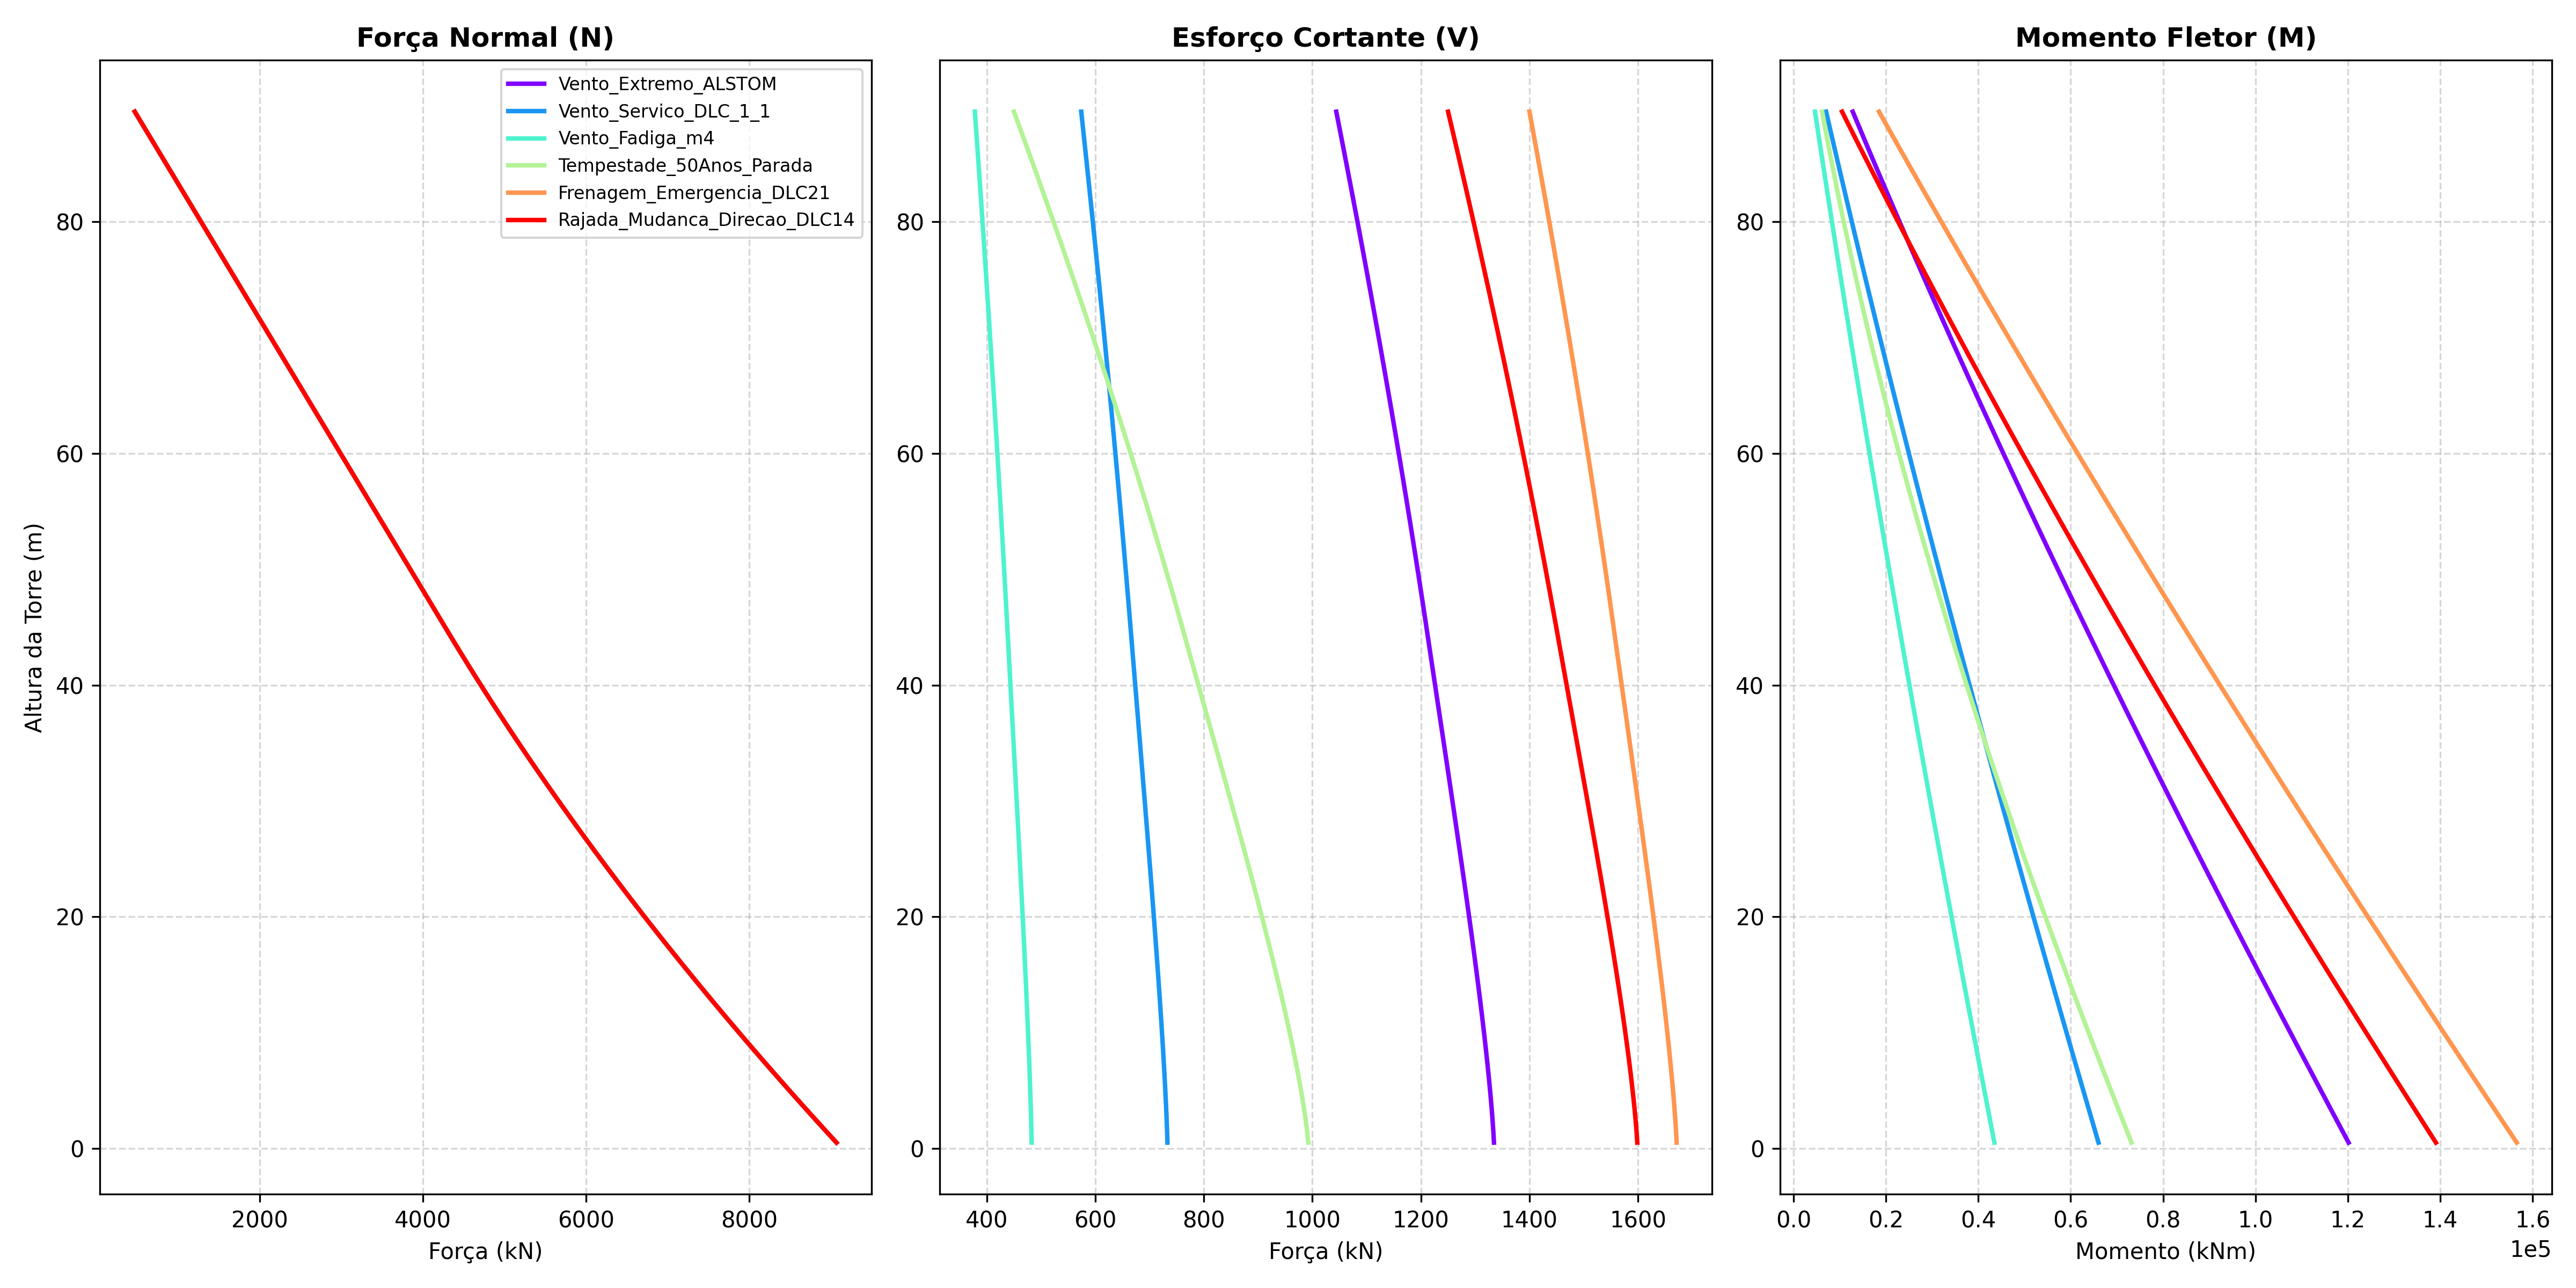
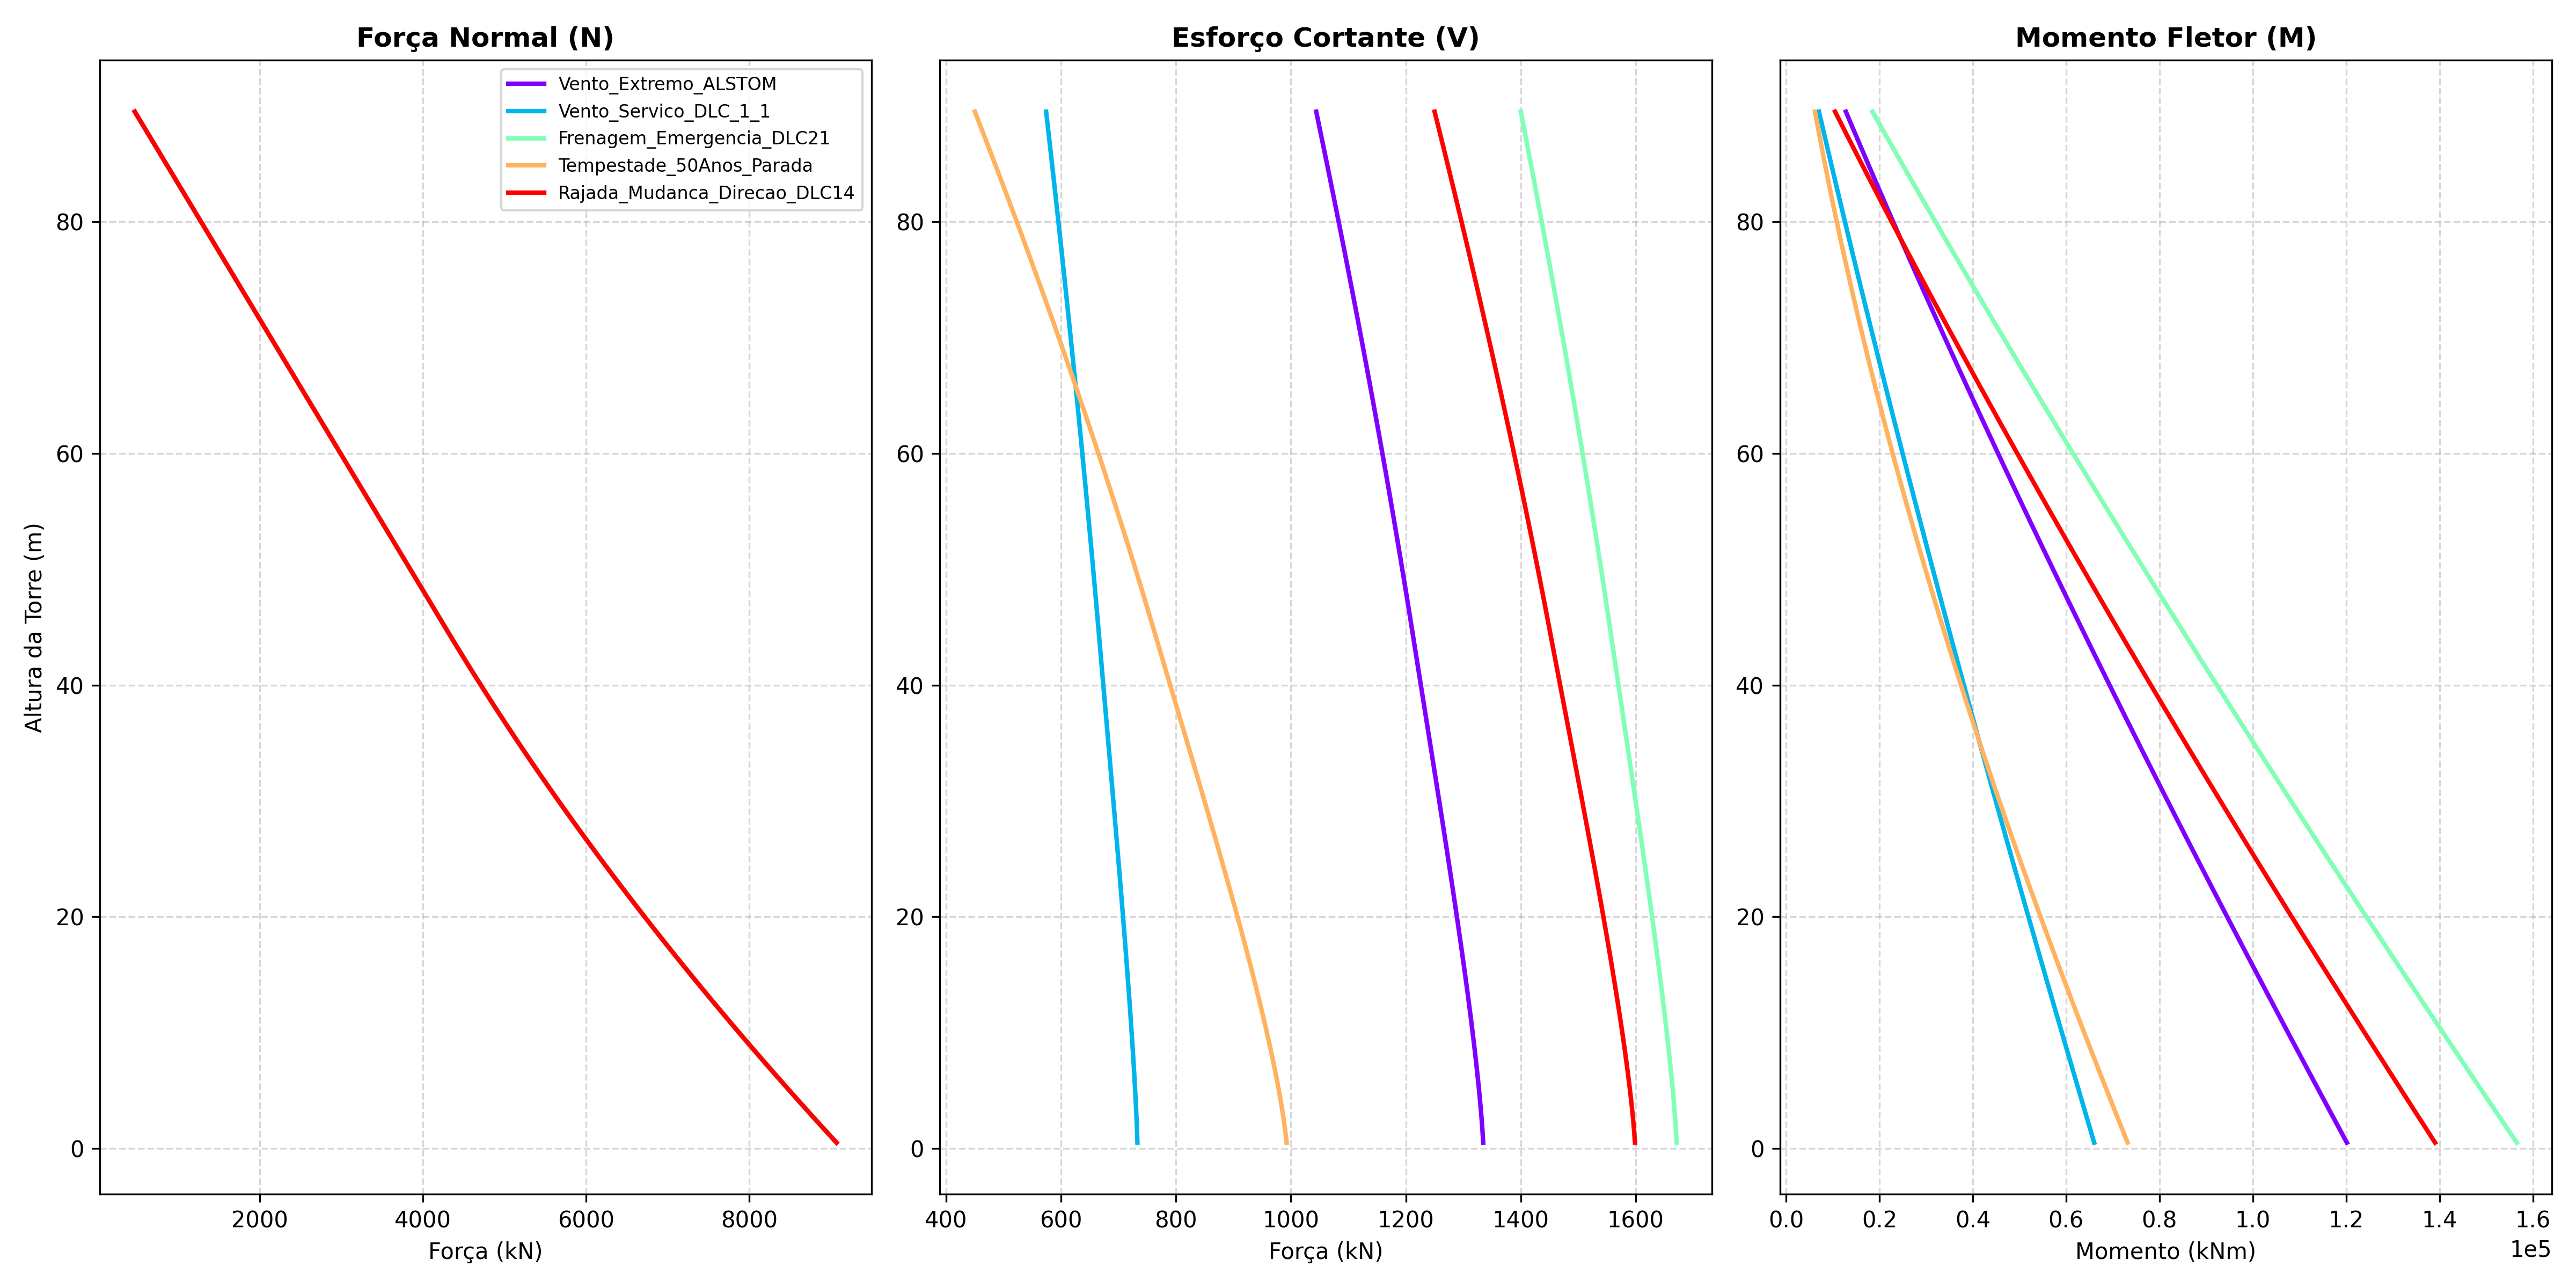
Aplicação de .jsons

diff --git a/Simulation.py b/Simulation.py
@@ -1,4 +1,5 @@
 import os
+import json
 import numpy as np
 import matplotlib.pyplot as plt
 import math
@@ -14,78 +15,38 @@ import math
 #      perfil de Hellmann (IEC 61400-1) para pressão do vento na torre naquele ponto. Ou seja: P_z= P_H*(z/H)**(2*alfa).
 #      também há uma força concentrada do vento na nacelle.
 
+#Leitura do .json da torre 
 
-# parametros fixos iniciais apenas para codar (pandas depois para fazer iterações):
+with open( "parametros_torre.json" , "r" ) as torre :
+    dados_torre = json.load(torre)
 
-# Torre Referência
-R_base =  3.0              #metros
-R_nacelle = 2.0            #metros
-H = 90.0                   #metros
-pesoNacelle = 467.0        #KN
-d = 2500.0                 #kg/m3
-e = 0.3                    #metros
-alfa = 0.2                 #coeficiente de rugosidade do terreno
-Cd = 0.7                   #coeficiente de arrasto
+params = dados_torre["parametros_torre"]
 
-# Variação 1: Torre de Alta Potência (Nova Geração)
-#R_base = 3.50              # metros (Base bem mais larga)
-#R_nacelle = 1.50           # metros
-#H = 150.0                  # metros (Torre super alta)
-#pesoNacelle = 4500.0       # KN (Nacelle muito mais pesada)
-#d = 2500.0                 # kg/m3 (Concreto armado mantido)
-#e = 0.35                   # metros (Paredes de 35 cm para aguentar o peso)
-#alfa = 0.2                 # coeficiente de rugosidade do terreno
-#Cd = 0.7                   #coeficiente de arrasto
+R_base = params["R_base"]
+R_nacelle = params["R_nacelle"]
+H = params["H"]
+pesoNacelle = params["pesoNacelle"]
+d = params["d"]
+e = params["e"]
+alfa = params["alfa"]
+Cd = params["Cd"]
 
-# Variação 2: Torre de Geração Antiga (Onshore Leve)
-#R_base = 1.80              # metros (Base mais estreita)
-#R_nacelle = 0.80           # metros
-#H = 80.0                   # metros (Torre mais baixa)
-#pesoNacelle = 1800.0       # KN (Nacelle mais leve)
-#d = 2500.0                 # kg/m3 (Concreto armado mantido)
-#e = 0.15                   # metros (Paredes de 15 cm)
-#alfa = 0.2                 # coeficiente de rugosidade do terreno
-#Cd = 0.7                   #coeficiente de arrasto
+#leitura do .json cenarios_vento
 
+with open( "cenarios_vento.json" , "r" ) as arquivo_cenarios :
+    dados_cenarios = json.load(arquivo_cenarios)
+
+cenarios = dados_cenarios["cenarios"]
+
+#criação da pasta 
 
 nome_pasta = f"Torre_H{H}m_Rb{R_base*100}cm_Rn{R_nacelle}m_e{e*100}cm"
 os.makedirs(nome_pasta, exist_ok=True)
 
+#Dados hardcode
+
 g = 9.81            #m/s2
 
-#pressaoVento = 1.5          #KPa no topo 
-#forcaNacelle = 1044.0       #KN
-#momentoNacelle = 12817.0    #KNm
-
-cenarios = {
-    # =========================================================================================
-    # 1. CENÁRIOS DOCUMENTADOS (Baseados no doc ALSTOM / EGT Engenharia cedidos pelo professor)
-    # =========================================================================================
-    
-    # Cargas Extremas - Com coeficientes de majoração (γF = 1.35)
-    "Vento_Extremo_ALSTOM": {"pressao": 1.50, "forca": 1044.0, "momento": 12817.0},
-    
-    # Caso DLC 1.1 (Serviço) - Cargas quase-permanentes sem majoração (γF = 1.00)
-    "Vento_Servico_DLC_1_1": {"pressao": 0.82, "forca": 574.0, "momento": 7049.0},
-    
-    # Cargas de Fadiga Equivalente - (Curva S-N m=4)
-    "Vento_Fadiga_m4": {"pressao": 0.54, "forca": 378.0, "momento": 4644.0},
-
-    # ==============================================================================
-    # 2. CENÁRIOS EXTREMOS HIPOTÉTICOS (CRIADOS POR INTELIGÊNCIA ARTIFICIAL - GEMINI)
-    # Valores plausíveis inspirados nos Design Load Cases (DLC) da norma IEC 61400-1 
-    # gerados exclusivamente para fins didáticos e testes de simulação.
-    # ==============================================================================
-    
-    # Turbina parada na tempestade (Pás em bandeira protegem a nacelle, mas a torre sofre)
-    "Tempestade_50Anos_Parada": {"pressao": 2.80, "forca": 450.0, "momento": 6200.0},
-    
-    # Travamento brusco do rotor em operação (Inércia cria momento fletor colossal no topo)
-    "Frenagem_Emergencia_DLC21": {"pressao": 1.40, "forca": 1400.0, "momento": 18500.0},
-    
-    # Rajada lateral (Vento obliquo força a estrutura de lado antes da turbina girar)
-    "Rajada_Mudanca_Direcao_DLC14": {"pressao": 1.80, "forca": 1250.0, "momento": 10500.0}
-}
 
 #contas:
 def calcular_raio(z):